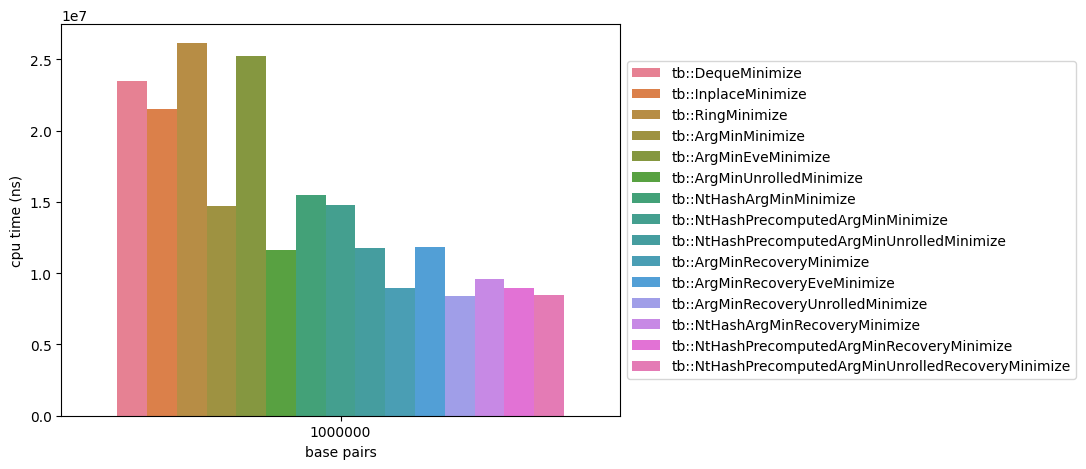
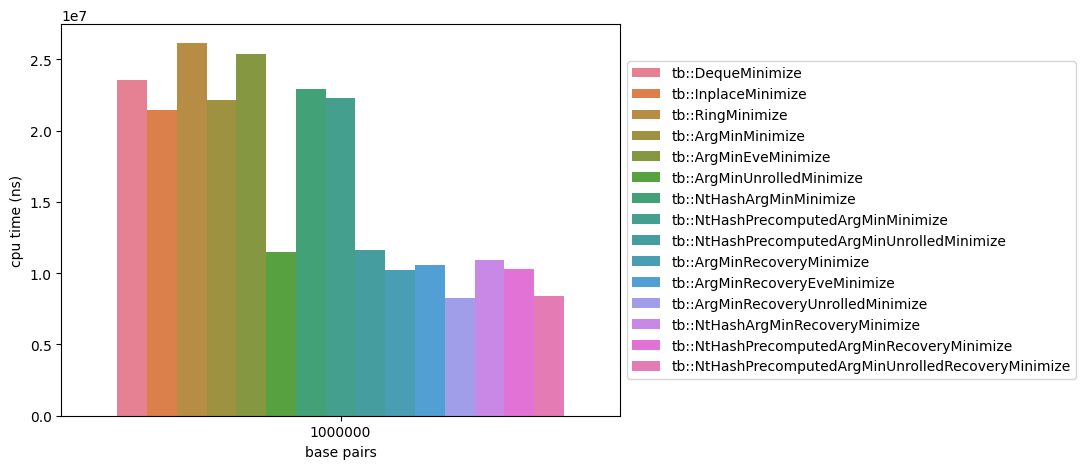
argmin-recoery: optimise condition

diff --git a/src/algo.cc b/src/algo.cc
@@ -352,12 +352,11 @@ class ArgMinRecoverySampler {
         cond = hashes[i - 1] < hashes[min_pos];
         min_pos = cond * (i - 1) + (!cond) * min_pos;
       } else {
+        cond = 1;
         auto window = std::span(hashes.begin() + i - args.window_length,
                                 hashes.begin() + i);
         min_pos =
             min_element_(window) - window.begin() + i - args.window_length;
-        cond = dst[idx - 1].position() != min_pos;
-        min_pos = cond * min_pos + (!cond) * dst[idx].position();
       }
       dst[idx] = KMer(hashes[min_pos], min_pos, 0);
       idx += cond;

diff --git a/README.md b/README.md
@@ -38,22 +38,22 @@ cmake --build build
 ### Figures
 | function                                            |   avg ns per bp |
 |:----------------------------------------------------|----------------:|
-| tb::NaiveMinimize                                   |       241.609   |
-| tb::RingMinimize                                    |        26.155   |
-| tb::ArgMinEveMinimize                               |        25.2055  |
-| tb::DequeMinimize                                   |        23.4586  |
-| tb::InplaceMinimize                                 |        21.4939  |
-| tb::NtHashArgMinMinimize                            |        15.4797  |
-| tb::NtHashPrecomputedArgMinMinimize                 |        14.8023  |
-| tb::ArgMinMinimize                                  |        14.7283  |
-| tb::ArgMinRecoveryEveMinimize                       |        11.8637  |
-| tb::NtHashPrecomputedArgMinUnrolledMinimize         |        11.7364  |
-| tb::ArgMinUnrolledMinimize                          |        11.6463  |
-| tb::NtHashArgMinRecoveryMinimize                    |         9.61013 |
-| tb::NtHashPrecomputedArgMinRecoveryMinimize         |         8.9431  |
-| tb::ArgMinRecoveryMinimize                          |         8.93697 |
-| tb::NtHashPrecomputedArgMinUnrolledRecoveryMinimize |         8.44489 |
-| tb::ArgMinRecoveryUnrolledMinimize                  |         8.43092 |
+| tb::NaiveMinimize                                   |       241.667   |
+| tb::RingMinimize                                    |        26.1466  |
+| tb::ArgMinEveMinimize                               |        25.3506  |
+| tb::DequeMinimize                                   |        23.5147  |
+| tb::NtHashArgMinMinimize                            |        22.9285  |
+| tb::NtHashPrecomputedArgMinMinimize                 |        22.3194  |
+| tb::ArgMinMinimize                                  |        22.1474  |
+| tb::InplaceMinimize                                 |        21.4186  |
+| tb::NtHashPrecomputedArgMinUnrolledMinimize         |        11.6007  |
+| tb::ArgMinUnrolledMinimize                          |        11.5099  |
+| tb::NtHashArgMinRecoveryMinimize                    |        10.9382  |
+| tb::ArgMinRecoveryEveMinimize                       |        10.5707  |
+| tb::NtHashPrecomputedArgMinRecoveryMinimize         |        10.2953  |
+| tb::ArgMinRecoveryMinimize                          |        10.2067  |
+| tb::NtHashPrecomputedArgMinUnrolledRecoveryMinimize |         8.36242 |
+| tb::ArgMinRecoveryUnrolledMinimize                  |         8.28662 |
 ![](misc/perf.png)
 
 ## Reference
